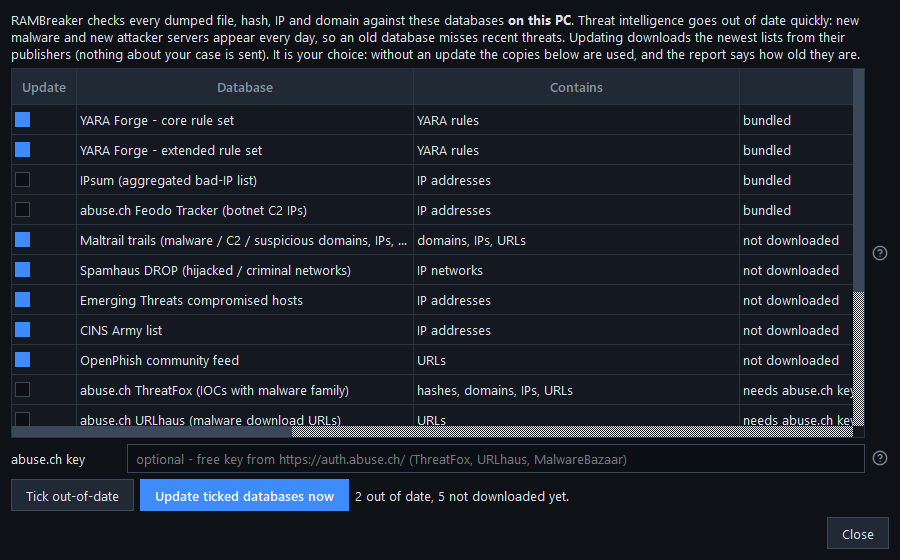
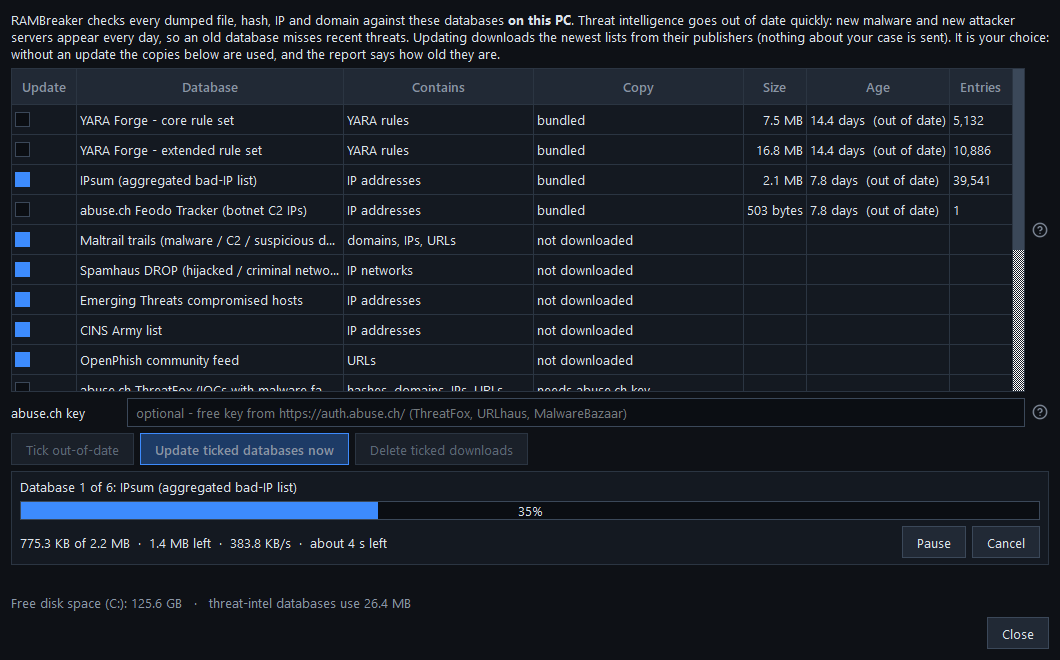
RAMBreaker manual: v2.6.0 (threat-intel download progress, Pause/Cancel, Delete, disk space)
Databases paragraph and screenshot (window during a real update: progress,
speed, time left, Pause, Cancel, Size column, free disk space), version and
download line (RAMBreaker_v2.6.0_windows_x64.zip, SHA-256 1ecaa476...bc13).

diff --git a/notes/rambreaker.md b/notes/rambreaker.md
@@ -11,15 +11,15 @@ created: 2026-09-20T01:50:00Z
 
 **One memory image. A traceable investigation.** RAMBreaker is my workflow layer around Volatility 3 and Volatility 2. You give it a RAM image; it detects the operating system, picks the right engine, runs the relevant plugins in parallel, connects their evidence, and shows the result in a desktop app and in a self-contained `report.html`. The raw plugin JSON and text stay beside the report, so you can always check where a finding came from instead of accepting a summary on faith.
 
-**Version 2.5.0 is the Windows edition**: one folder you start with `RAMBreaker.exe` on Windows 10 or 11. Python, Volatility 3 2.28.2 and Volatility 2 2.6.1 are inside; there is nothing to install and no WSL or Docker. It analyses Windows, Linux and macOS memory images (`.raw .mem .vmem .lime .dmp .bin .img`). **Nothing is ever uploaded**: network access is only used to fetch symbol tables for unknown Linux kernels, and for optional threat-intel updates and VirusTotal hash lookups that you switch on yourself.
+**Version 2.6.0 is the Windows edition**: one folder you start with `RAMBreaker.exe` on Windows 10 or 11. Python, Volatility 3 2.28.2 and Volatility 2 2.6.1 are inside; there is nothing to install and no WSL or Docker. It analyses Windows, Linux and macOS memory images (`.raw .mem .vmem .lime .dmp .bin .img`). **Nothing is ever uploaded**: network access is only used to fetch symbol tables for unknown Linux kernels, and for optional threat-intel updates and VirusTotal hash lookups that you switch on yourself.
 
 RAMBreaker reports observations for an investigator to assess. A suspicious process or memory region is **not** an automatic malware verdict.
 
-> **This page is the manual.** Every screenshot below comes from a real v2.5.0 run of the released build on `Windows2.raw`, a public Windows 7 CTF memory image.
+> **This page is the manual.** Every screenshot below comes from a real v2.5.0 run of the released build on `Windows2.raw`, a public Windows 7 CTF memory image; the threat-intel databases window shows v2.6.0 during a real update.
 
 ## Download
 
[2 lines of base64/hex data omitted]
 - [Source code](https://github.com/AhmadAnasweh/RAMBreaker), [changelog](https://github.com/AhmadAnasweh/RAMBreaker/blob/main/CHANGELOG.md), [component versions](https://github.com/AhmadAnasweh/RAMBreaker/blob/main/VERSIONS.md).
 - The original Linux command-line toolkit (v6.2) stays available as the [`v6.2` tag](https://github.com/AhmadAnasweh/RAMBreaker/tree/v6.2).
 
@@ -27,7 +27,7 @@ RAMBreaker reports observations for an investigator to assess. A suspicious proc
 
 ## 1. Install and first start
 
-1. Download the zip and extract it to a folder of your choice, preferably on an SSD (for example `C:\Tools\RAMBreaker_v2.5.0`). The folder is about 1.4 GB, plus room for your cases.
+1. Download the zip and extract it to a folder of your choice, preferably on an SSD (for example `C:\Tools\RAMBreaker_v2.6.0`). The folder is about 1.4 GB, plus room for your cases.
 2. Double-click `RAMBreaker.exe`.
 3. A guided tour runs on the first start. It points at each part of the window; you can restart it any time with **Tour** in the toolbar.
 
@@ -310,11 +310,11 @@ The **DFIR + Threat Intel** preset answers *"is anything in this image known to 
 5. A scored **"look here first"** list. Each entry says why it is there.
 6. **VirusTotal only if you enter a key.** Only hashes, public IPs and domains from the short list are looked up; files are never uploaded, private IPs and internal names are never sent, and everything that was sent is listed in `vt_sent.txt`. The key is stored DPAPI-encrypted for your Windows user only if you tick *Remember*.
 
-The databases go out of date. The options window and **Settings > Threat-intel databases** show the age of each source and offer an **Update**; updating is never automatic.
+The databases go out of date. The options window and **Settings > Threat-intel databases** show the age and size of each source and offer an **Update**; updating is never automatic. While an update runs you see which database is being fetched, how much is downloaded and how much is left, the download speed and the time left, and you can **Pause**, **Resume** or **Cancel** it. Cancel keeps the previous copy of the database being fetched; VirusShare continues from the last list it installed. **Delete ticked downloads** frees the space of downloaded copies (copies that ship with RAMBreaker stay), and the window shows the free disk space; an update that needs more space than the drive has asks first.
 
-![Threat-intel databases and their ages](/notes/files/rambreaker-v2-ti-databases.png)
+![Threat-intel databases during an update: progress, speed, time left, Pause and Cancel](/notes/files/rambreaker-v2-ti-databases.png)
 
-*The threat-intel databases. Sources that may not be redistributed are downloaded to your PC only when you choose Update. [Open full size](https://ahmad.anasweh.com/notes/files/rambreaker-v2-ti-databases.png).*
+*The threat-intel databases during an update (v2.6.0): IPsum is downloading, 1.4 MB left at 383.8 KB/s. Sources that may not be redistributed are downloaded to your PC only when you choose Update. [Open full size](https://ahmad.anasweh.com/notes/files/rambreaker-v2-ti-databases.png).*
 
 Results go to the report's **Threat Intelligence** tab and to `<case>\threat_intelligence\`. **Analysis > Threat intel on this case** adds threat intel to a case analysed earlier.
 
